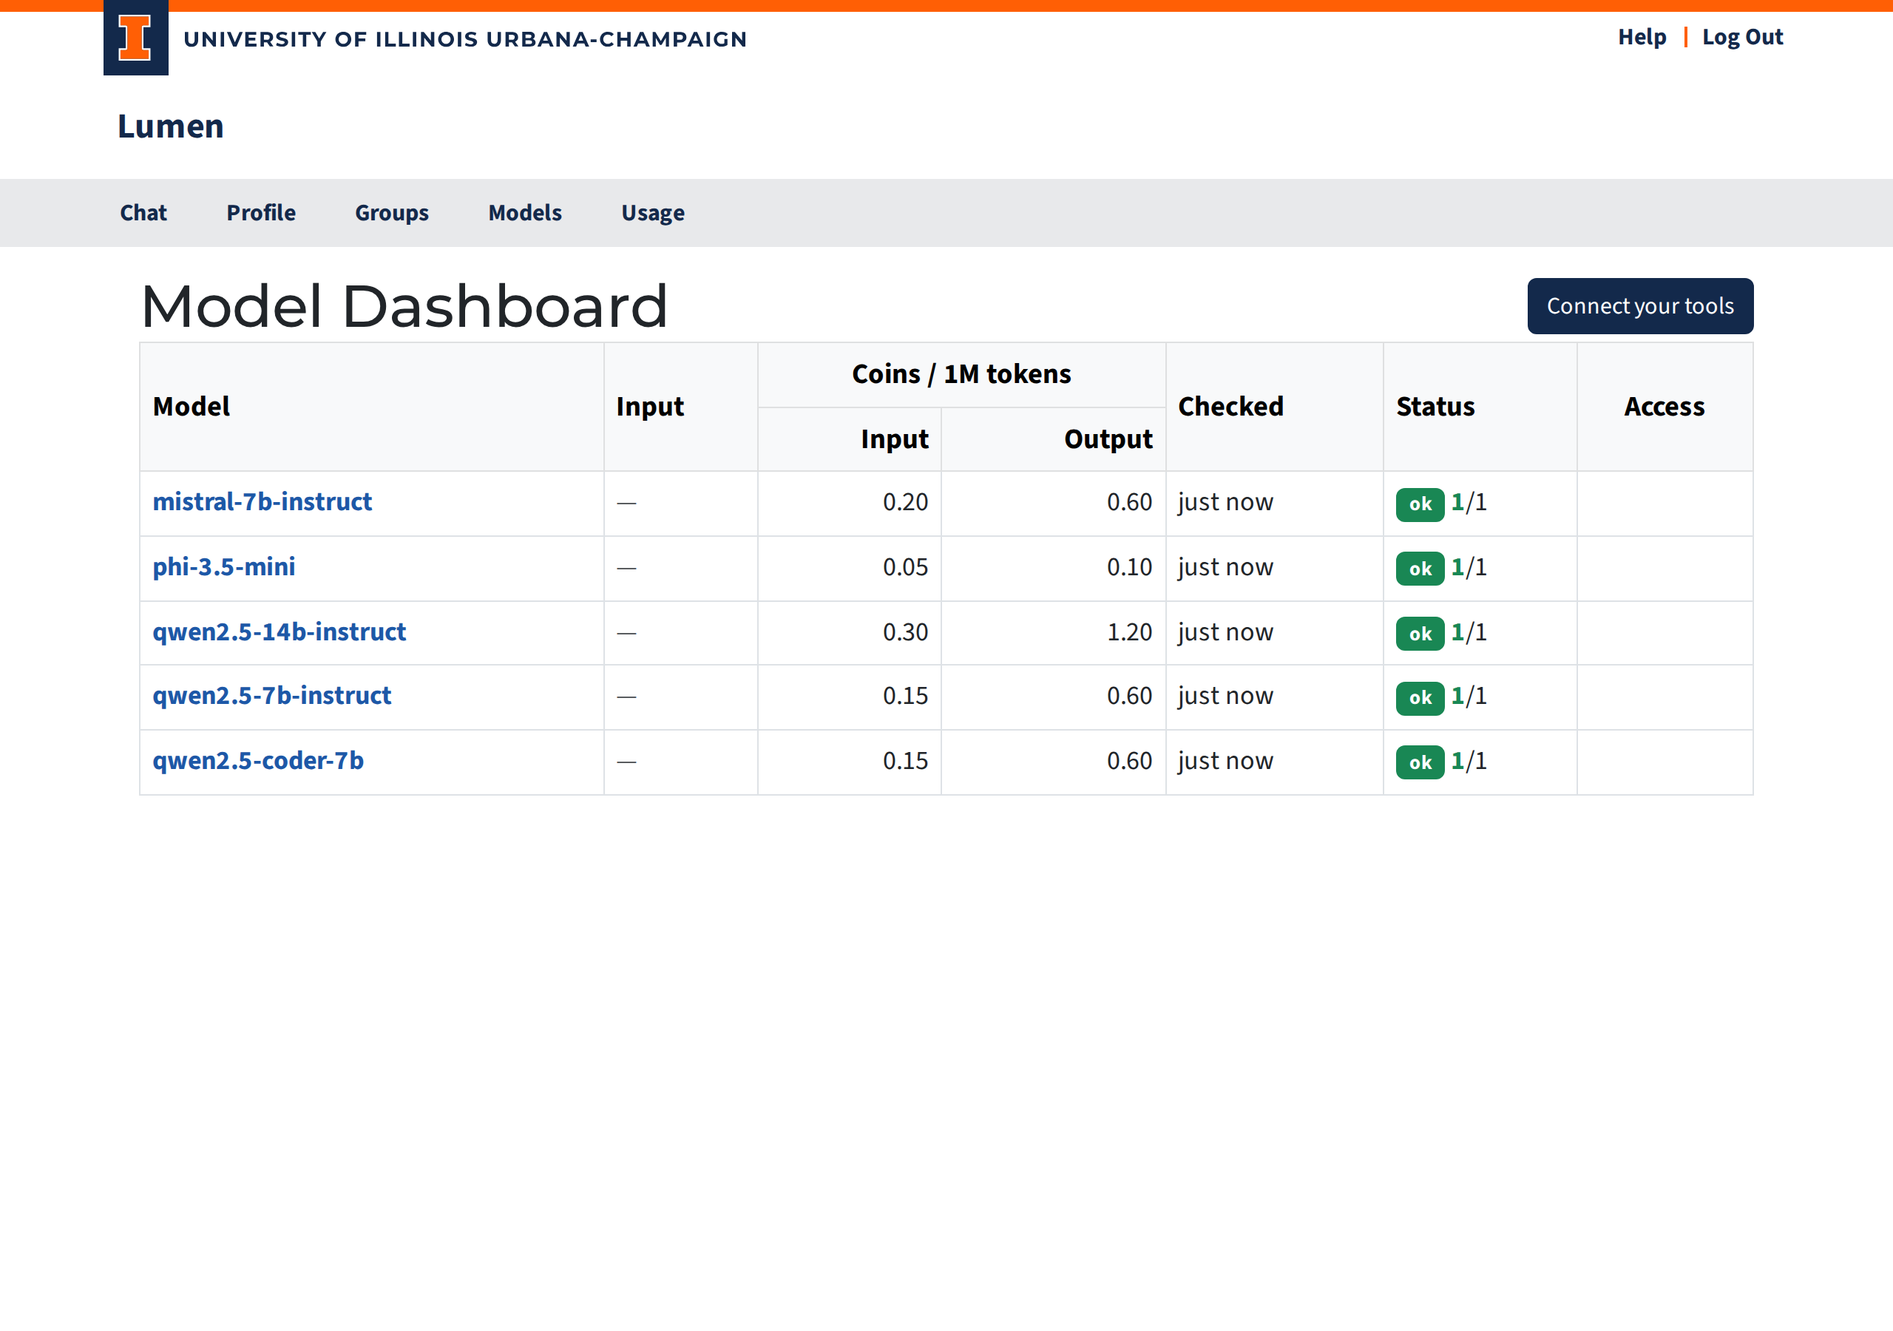
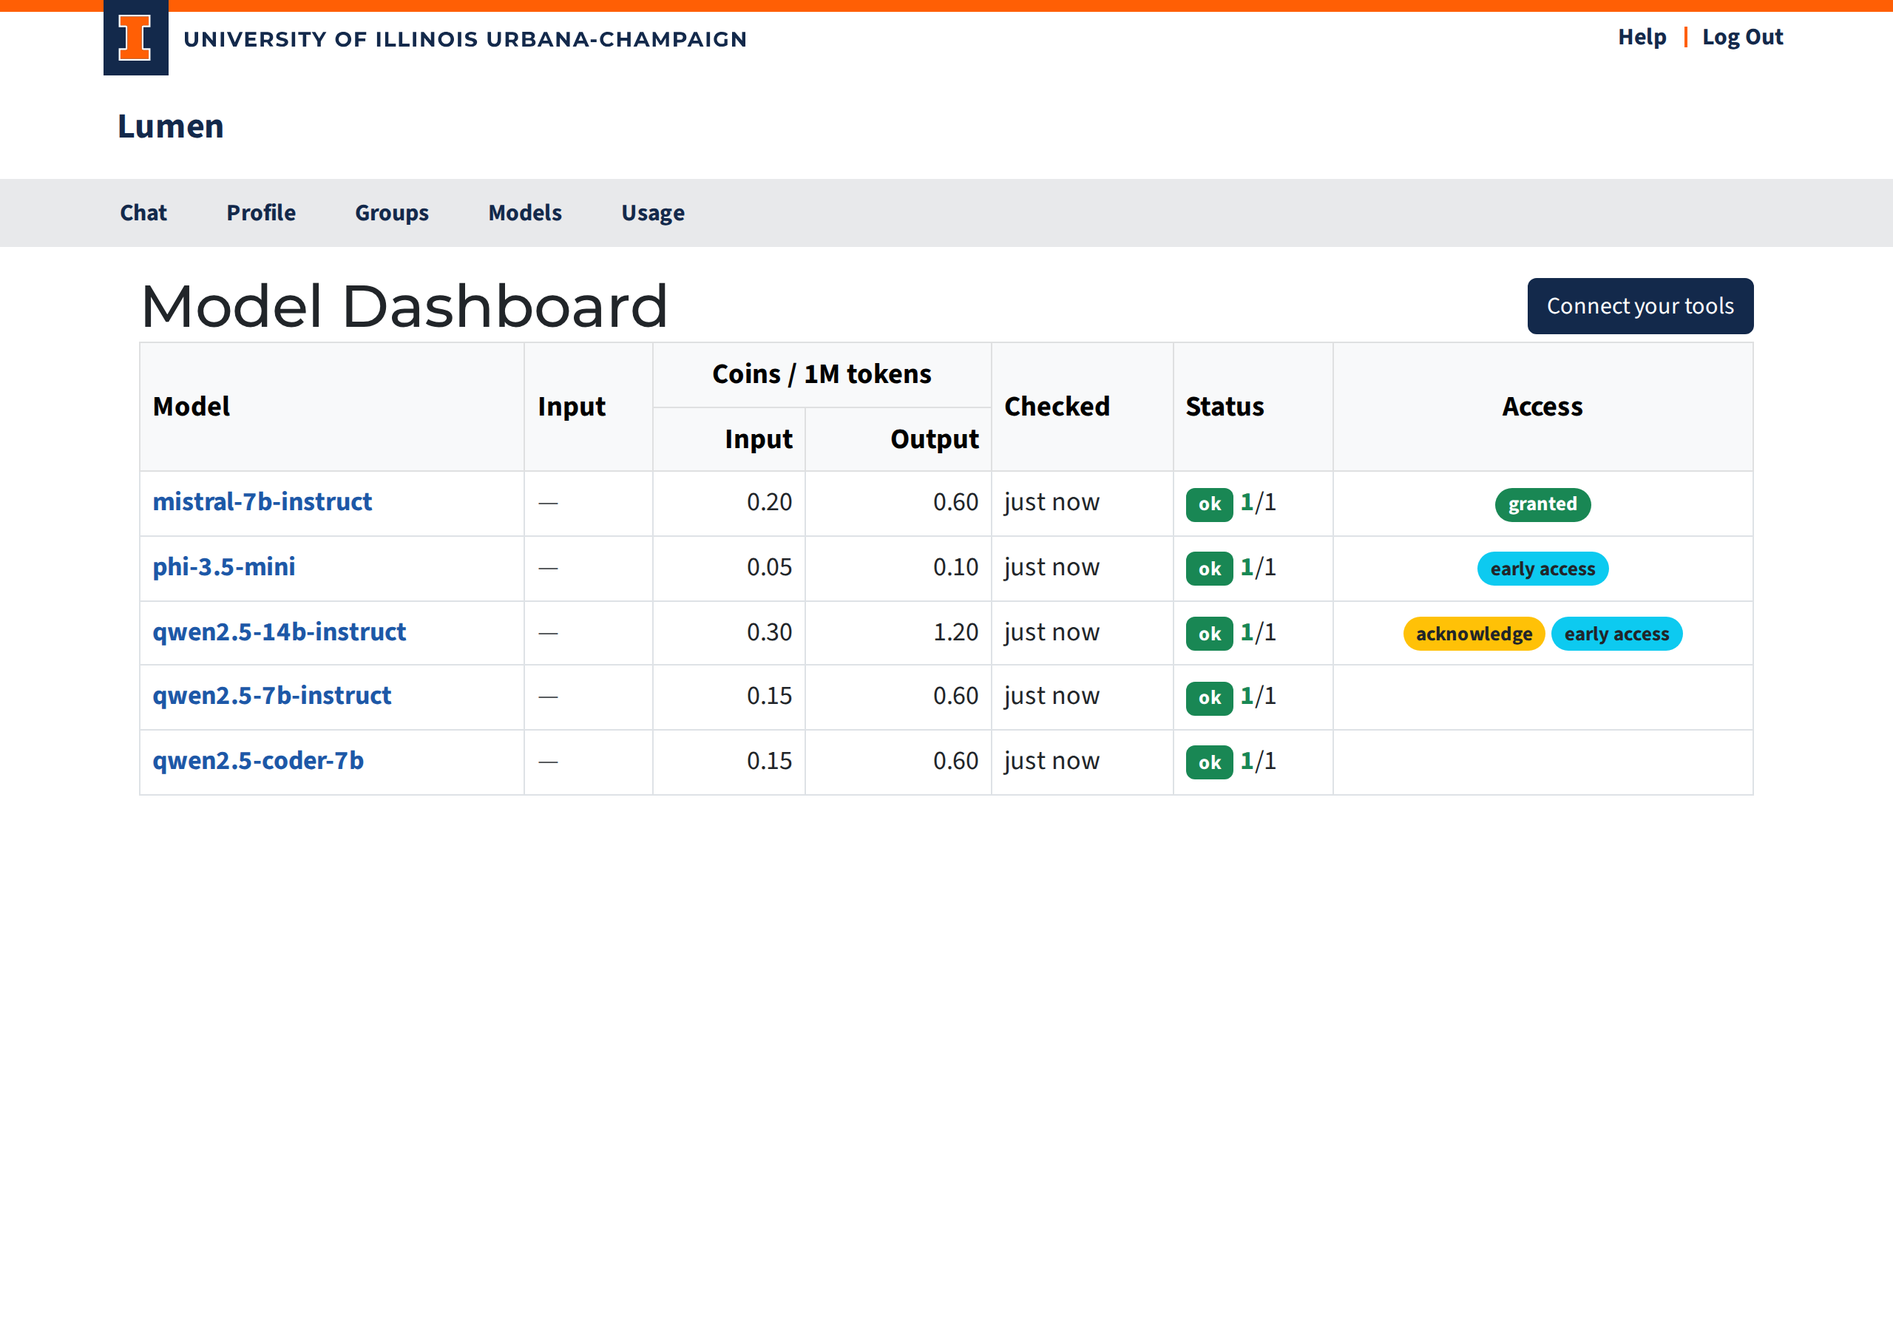
RK-273 Model Dashboard: clickable Access pills and granted pill (#104)
* Make Model Dashboard Access pills open the acknowledge dialog

Unconsented acknowledge / early access pills are now buttons that open the
shared acknowledgment dialog; once every requirement is consented the cell
shows a single granted pill. A requirement added after consent re-shows the
pills.

* Document clickable Access pills, re-capture models screenshot, update CHANGELOG

* Show acknowledgment details when the granted pill is clicked

The granted pill is now a button that opens the same Access Acknowledgment
popover as the chat page's consented icon: the notices and when the model
was acknowledged.

* Move new accessibility-test imports to module scope

diff --git a/lumen/templates/models.html b/lumen/templates/models.html
@@ -67,12 +67,21 @@
           <span class="fw-bold {% if healthy_eps %}text-success{% else %}text-danger{% endif %}">{{ healthy_eps | length }}</span>/{{ endpoints | length }}
         {% endif %}
       </td>
-      <td class="text-center">
-        {% if config.needs_ack %}
-          <span class="badge rounded-pill bg-warning text-dark">acknowledge</span>
-        {% endif %}
-        {% if config.early_access %}
-          <span class="badge rounded-pill bg-info text-dark">early access</span>
+      <td class="text-center text-nowrap">
+        {% set ack = ack_map.get(config.id) %}
+        {% if ack and ack.consented %}
+          <button type="button" class="badge rounded-pill bg-success border-0 consent-info-btn"
+                  data-notice="{{ ack.notice or '' }}" data-early-notice="{{ ack.early_notice or '' }}"
+                  data-consented-at="{{ ack.consent_at.strftime('%Y-%m-%dT%H:%M:%SZ') if ack.consent_at else '' }}">granted<span class="visually-hidden"> for {{ config.model_name }}, show acknowledgment details</span></button>
+        {% elif ack %}
+          {% if config.needs_ack %}
+            <button type="button" class="badge rounded-pill bg-warning text-dark border-0 ack-btn" aria-haspopup="dialog"
+                    data-name="{{ config.model_name }}" data-notice="{{ ack.notice or '' }}" data-early-notice="{{ ack.early_notice or '' }}">acknowledge<span class="visually-hidden"> for {{ config.model_name }}</span></button>
+          {% endif %}
+          {% if config.early_access %}
+            <button type="button" class="badge rounded-pill bg-info text-dark border-0 ack-btn" aria-haspopup="dialog"
+                    data-name="{{ config.model_name }}" data-notice="{{ ack.notice or '' }}" data-early-notice="{{ ack.early_notice or '' }}">early access<span class="visually-hidden"> for {{ config.model_name }}</span></button>
+          {% endif %}
         {% endif %}
       </td>
     </tr>
@@ -82,10 +91,21 @@
   </tbody>
 </table>
 </ilw-content>
+{% include '_ack_modal.html' %}
 {% endblock %}
 
 {% block scripts %}
+<script src="https://cdn.jsdelivr.net/npm/marked/marked.min.js"></script>
+<script src="https://cdn.jsdelivr.net/npm/dompurify/dist/purify.min.js"></script>
+<script src="{{ url_for('static', filename='js/ack-consent.js') }}"></script>
 <script>
   document.querySelectorAll('[data-bs-toggle="tooltip"]').forEach(el => new bootstrap.Tooltip(el));
+  const openAckModal = initAckConsent(() => location.reload());
+  document.querySelectorAll('.ack-btn').forEach(btn => {
+    btn.addEventListener('click', () => openAckModal(btn.dataset.name, btn.dataset.notice || null, btn.dataset.earlyNotice || null));
+  });
+  document.querySelectorAll('.consent-info-btn').forEach(btn => {
+    btn.addEventListener('click', () => toggleConsentPopover(btn, 'left'));
+  });
 </script>
 {% endblock %}

diff --git a/lumen/static/js/ack-consent.js b/lumen/static/js/ack-consent.js
@@ -47,3 +47,58 @@ function initAckConsent(onSuccess, consentUrlFor) {
 
   return openAckModal;
 }
+
+// Toggles the "Access enabled" popover shown for an already-acknowledged model
+// (same content as the chat page's consented icon). Reads data-notice,
+// data-early-notice and data-consented-at from btn. Auto-dismisses after 20 s
+// (WCAG 2.2.1), paused while the button or popover is hovered or focused; Esc,
+// an outside click or a second click closes it.
+const toggleConsentPopover = (() => {
+  let popover = null;
+  let timer = null;
+
+  function dismiss() {
+    if (popover) { popover.dispose(); popover = null; }
+    clearTimeout(timer);
+  }
+  const startTimer = () => { clearTimeout(timer); timer = setTimeout(dismiss, 20000); };
+  const stopTimer = () => clearTimeout(timer);
+
+  document.addEventListener("keydown", e => { if (e.key === "Escape") dismiss(); });
+  document.addEventListener("click", e => {
+    if (popover && !popover._element.contains(e.target) && !(popover.tip && popover.tip.contains(e.target))) dismiss();
+  });
+
+  return function (btn, placement) {
+    const wasOpenHere = popover && popover._element === btn;
+    dismiss();
+    if (wasOpenHere) return;
+    const notice = btn.dataset.notice || "";
+    const earlyNotice = btn.dataset.earlyNotice || "";
+    const consentedAt = btn.dataset.consentedAt || "";
+    let content = notice ? DOMPurify.sanitize(marked.parse(notice)) : "";
+    if (earlyNotice) content += DOMPurify.sanitize(marked.parse(earlyNotice));
+    if (consentedAt) {
+      const dt = new Date(consentedAt);
+      content += `<p class="mb-0${notice ? " mt-1" : ""}"><strong>Access enabled.</strong> You acknowledged this model on ${dt.toLocaleString()}.</p>`;
+    }
+    popover = new bootstrap.Popover(btn, {
+      html: true,
+      content: content || "<strong>Access enabled.</strong> This model has been acknowledged.",
+      trigger: "manual",
+      placement: placement || "bottom",
+      title: '<span class="text-warning"><i class="bi bi-exclamation-triangle-fill" aria-hidden="true"></i></span> Access Acknowledgment Required',
+      customClass: "popover-warning",
+    });
+    const current = popover;
+    btn.addEventListener("shown.bs.popover", () => {
+      if (current !== popover || !current.tip) return;
+      current.tip.addEventListener("mouseenter", stopTimer);
+      current.tip.addEventListener("mouseleave", startTimer);
+    }, { once: true });
+    btn.onmouseenter = btn.onfocus = stopTimer;
+    btn.onmouseleave = btn.onblur = () => { if (popover === current && !btn.matches(":hover, :focus")) startTimer(); };
+    popover.show();
+    if (!btn.matches(":hover, :focus")) startTimer();
+  };
+})();

diff --git a/tests/ui/test_models_table.py b/tests/ui/test_models_table.py
@@ -3,6 +3,7 @@ from datetime import datetime
 from bs4 import BeautifulSoup
 
 from lumen.extensions import db
+from lumen.models.entity_model_consent import EntityModelConsent
 from lumen.models.model_config import ModelConfig
 from lumen.models.model_endpoint import ModelEndpoint
 
@@ -58,37 +59,112 @@ def test_model_name_does_not_wrap(auth_client, test_model):
     assert "text-nowrap" in row.find("a")["class"]
 
 
-def test_needs_ack_row_has_acknowledge_pill(app, auth_client, test_model):
-    _set_model(app, test_model["id"], needs_ack=True)
+def _access_cell(row):
+    return row.find_all("td")[-1]
+
+
+def _access_buttons(row):
+    return {b.find(string=True, recursive=False).strip(): b for b in _access_cell(row).find_all("button")}
+
+
+def _consent(app, entity_id, model_id, **timestamps):
+    with app.app_context():
+        db.session.add(EntityModelConsent(entity_id=entity_id, model_config_id=model_id, **timestamps))
+        db.session.commit()
+
+
+def test_needs_ack_row_has_acknowledge_button(app, auth_client, test_model):
+    _set_model(app, test_model["id"], needs_ack=True, ack_message="Read **this**.")
 
     row = _row(_soup(auth_client), test_model["model_name"])
     assert row is not None
-    pill = row.find("span", class_="badge", string="acknowledge")
-    assert pill is not None
-    assert "bg-warning" in pill["class"]
-    assert "text-dark" in pill["class"]
+    buttons = _access_buttons(row)
+    assert list(buttons) == ["acknowledge"]
+    btn = buttons["acknowledge"]
+    assert btn["type"] == "button"
+    assert {"badge", "rounded-pill", "bg-warning", "text-dark", "ack-btn"} <= set(btn["class"])
+    assert btn["data-name"] == test_model["model_name"]
+    assert btn["data-notice"] == "Read **this**."
+    assert btn["data-early-notice"] == ""
+    assert btn.find("span", class_="visually-hidden").get_text() == f" for {test_model['model_name']}"
     assert row.find("i", class_="bi-lock-fill") is None
     assert "Acknowledgment required" not in row.get_text()
 
 
-def test_early_access_row_has_early_access_pill(app, auth_client, test_model):
+def test_early_access_row_has_early_access_button(app, auth_client, test_model):
     _set_model(app, test_model["id"], early_access=True)
 
     row = _row(_soup(auth_client), test_model["model_name"])
     assert row is not None
-    pill = row.find("span", class_="badge", string="early access")
-    assert pill is not None
-    assert "bg-info" in pill["class"]
-    assert "acknowledge" not in _pills(row)
+    buttons = _access_buttons(row)
+    assert list(buttons) == ["early access"]
+    btn = buttons["early access"]
+    assert "bg-info" in btn["class"]
+    assert btn["data-name"] == test_model["model_name"]
+    assert btn["data-notice"] == ""
 
 
-def test_plain_model_has_no_access_pills(auth_client, test_model):
+def test_both_requirements_render_both_buttons(app, auth_client, test_model):
+    _set_model(app, test_model["id"], needs_ack=True, early_access=True)
+
+    row = _row(_soup(auth_client), test_model["model_name"])
+    buttons = _access_buttons(row)
+    assert list(buttons) == ["acknowledge", "early access"]
+    # Either pill opens the same dialog with both notices.
+    assert buttons["acknowledge"]["data-early-notice"] == buttons["early access"]["data-early-notice"]
+    assert buttons["acknowledge"]["data-notice"] == buttons["early access"]["data-notice"]
+
+
+def test_consented_model_shows_single_granted_pill(app, auth_client, test_user, test_model):
+    _set_model(app, test_model["id"], needs_ack=True, early_access=True)
+    _consent(app, test_user["id"], test_model["id"], consented_at=datetime(2026, 1, 1), early_access_at=datetime(2026, 1, 1))
+
+    cell = _access_cell(_row(_soup(auth_client), test_model["model_name"]))
+    assert cell.find(class_="ack-btn") is None
+    pills = cell.find_all(class_="badge")
+    assert len(pills) == 1
+    pill = pills[0]
+    assert pill.name == "button"
+    assert pill["type"] == "button"
+    assert pill.find(string=True, recursive=False).strip() == "granted"
+    assert {"bg-success", "consent-info-btn"} <= set(pill["class"])
+    assert pill["data-consented-at"] == "2026-01-01T00:00:00Z"
+    assert "for test-model" in pill.find("span", class_="visually-hidden").get_text()
+
+
+def test_granted_pill_carries_notices_for_details_popover(app, auth_client, test_user, test_model):
+    _set_model(app, test_model["id"], needs_ack=True, ack_message="Read **this**.")
+    _consent(app, test_user["id"], test_model["id"], consented_at=datetime(2026, 2, 3, 4, 5, 6))
+
+    pill = _access_cell(_row(_soup(auth_client), test_model["model_name"])).find("button", class_="consent-info-btn")
+    assert pill["data-notice"] == "Read **this**."
+    assert pill["data-early-notice"] == ""
+    assert pill["data-consented-at"] == "2026-02-03T04:05:06Z"
+
+
+def test_requirement_added_after_consent_shows_pills_again(app, auth_client, test_user, test_model):
+    _set_model(app, test_model["id"], needs_ack=True)
+    _consent(app, test_user["id"], test_model["id"], consented_at=datetime(2026, 1, 1))
+    _set_model(app, test_model["id"], early_access=True)
+
+    row = _row(_soup(auth_client), test_model["model_name"])
+    assert list(_access_buttons(row)) == ["acknowledge", "early access"]
+    assert "granted" not in _pills(row)
+
+
+def test_plain_model_has_empty_access_cell(auth_client, test_model):
     row = _row(_soup(auth_client), test_model["model_name"])
     assert row is not None
-    pills = _pills(row)
-    assert "acknowledge" not in pills
-    assert "early access" not in pills
+    cell = _access_cell(row)
+    assert cell.get_text(strip=True) == ""
+    assert cell.find("button") is None
     assert row.find("i", class_="bi-lock-fill") is None
+
+
+def test_page_includes_ack_dialog(auth_client, test_model):
+    soup = _soup(auth_client)
+    assert soup.find(id="ackModal") is not None
+    assert any("ack-consent.js" in (s.get("src") or "") for s in soup.find_all("script"))
 
 
 def test_checked_header_renamed(auth_client, test_model):

diff --git a/lumen/blueprints/models_page/routes.py b/lumen/blueprints/models_page/routes.py
@@ -40,13 +40,26 @@ def _visible_model_or_404(model_name):
 def index():
     entity_id = session.get("entity_id")
     all_configs = db.session.execute(select(ModelConfig).where(ModelConfig.active).order_by(ModelConfig.model_name)).scalars().all()
-    access_statuses, _ = bulk_model_access_info(entity_id, [c.id for c in all_configs])
+    access_statuses, consent_map = bulk_model_access_info(entity_id, [c.id for c in all_configs])
     configs = [c for c in all_configs if access_statuses.get(c.id, "allowed") != "blocked"]
     model_ids = [c.id for c in configs]
+    # Acknowledgement state for the Access column. consent_map only holds models
+    # whose requirements are all satisfied, so a requirement added after consent
+    # re-shows the pills.
+    ack_map = {}
+    for c in configs:
+        if access_statuses.get(c.id) == "needs_ack":
+            notice, early_notice = model_notices(c)
+            ack_map[c.id] = {
+                "consented": c.id in consent_map,
+                "consent_at": consent_map.get(c.id),
+                "notice": notice,
+                "early_notice": early_notice,
+            }
     endpoints_map: dict[int, list] = {}
     for ep in db.session.execute(select(ModelEndpoint).where(ModelEndpoint.model_config_id.in_(model_ids), ModelEndpoint.active.is_(True))).scalars().all():
         endpoints_map.setdefault(ep.model_config_id, []).append(ep)
-    return render_template("models.html", configs=configs, endpoints_map=endpoints_map)
+    return render_template("models.html", configs=configs, endpoints_map=endpoints_map, ack_map=ack_map)
 
 
 @models_page_bp.route("/models/<path:model_name>")

diff --git a/tests/ui/test_accessibility.py b/tests/ui/test_accessibility.py
@@ -12,9 +12,14 @@ Rules enforced (from CLAUDE.md):
 - Data tables (<table> with <thead> and <tbody>) have <caption> or aria-label
 - Heading levels do not skip (h1 → h2 → h3, never h1 → h3)
 """
+from datetime import datetime
 from http import HTTPStatus
 
 from bs4 import BeautifulSoup
+
+from lumen.extensions import db
+from lumen.models.entity_model_consent import EntityModelConsent
+from lumen.models.model_config import ModelConfig
 
 # ---------------------------------------------------------------------------
 # Shared helpers
@@ -151,6 +156,27 @@ def test_landing_page(client):
 
 
 def test_models_page(auth_client):
+    resp = auth_client.get("/models")
+    assert resp.status_code == HTTPStatus.OK
+    _run_all_checks(resp.data, "/models")
+
+
+def test_models_page_with_access_pills(app, auth_client, test_model):
+    with app.app_context():
+        model = db.session.get(ModelConfig, test_model["id"])
+        model.needs_ack = True
+        model.early_access = True
+        db.session.commit()
+    resp = auth_client.get("/models")
+    assert resp.status_code == HTTPStatus.OK
+    _run_all_checks(resp.data, "/models")
+
+
+def test_models_page_with_granted_pill(app, auth_client, test_user, test_model):
+    with app.app_context():
+        db.session.get(ModelConfig, test_model["id"]).needs_ack = True
+        db.session.add(EntityModelConsent(entity_id=test_user["id"], model_config_id=test_model["id"], consented_at=datetime(2026, 1, 1)))
+        db.session.commit()
     resp = auth_client.get("/models")
     assert resp.status_code == HTTPStatus.OK
     _run_all_checks(resp.data, "/models")

diff --git a/docs/models/models.md b/docs/models/models.md
@@ -14,7 +14,7 @@ The **Models** page (`/models`) shows every AI model available to you in your Lu
 | **Coins / 1M tokens — Output** | Cost per million output tokens |
 | **Checked** | How long ago the most recent health check ran (e.g. `5 min. ago`); hover over or tab to it for the full date and time. It updates every minute while the page is open. **Never** means no check has run yet |
 | **Status** | Current availability (see below), followed by how many of the model's backend servers are currently reachable out of the total configured (e.g. **ok** `4/4`, **degraded** `2/4`) |
-| **Access** | Whether you must acknowledge the model's terms before use (see below) |
+| **Access** | Whether you must acknowledge the model's terms before use, or **granted** once you have (see below) |
 
 ## Status Badges
 
@@ -28,7 +28,7 @@ The **Models** page (`/models`) shows every AI model available to you in your Lu
 
 Models with **no endpoints** show the badge alone, without a healthy count.
 
-In the **Access** column, models that require a one-time acknowledgment show an **acknowledge** badge, and early-access models show an **early access** badge — these models may change or be removed at any time, and you must acknowledge that before using them. A model with an end date disappears from this page once the date passes.
+In the **Access** column, models that require a one-time acknowledgment show an **acknowledge** pill, and early-access models show an **early access** pill — these models may change or be removed at any time, and you must acknowledge that before using them. Click either pill to open the acknowledgment dialog, which shows every notice that applies to the model; **Accept & Enable** records your acknowledgment and the pills are replaced by a green **granted** pill; click **granted** to see the notices you accepted and when you acknowledged them. **Cancel** leaves the model unchanged. If a model gains a new requirement after you acknowledged it, its pills appear again until you acknowledge the new terms. Models without requirements leave the column empty. A model with an end date disappears from this page once the date passes.
 
 ## Understanding Pricing
 

diff --git a/CHANGELOG.md b/CHANGELOG.md
@@ -20,7 +20,7 @@ All notable changes to Lumen will be documented in this file.
 
 ### Changed
 
-- Compact the Model Dashboard table: grouped coin columns, merged health into status, relative check times.
+- Compact the Model Dashboard table: grouped coin columns, health merged into status, relative check times; acknowledge models from the Access column.
 - Request and token totals of a million or more display compactly (e.g. "5.2 million", "16.1 billion").
 - Generated opencode configs (`lumen.sh` sync and the Connect page) advertise each model's `modalities`, `attachment`, `tool_call`, and `reasoning` flags, so OpenCode accepts image uploads for vision models instead of rejecting them client-side. ([#79](https://github.com/ncsa/lumen/issues/79))
 - The model dashboard lists each model's accepted inputs (text/image/audio) as pills next to its name. ([#79](https://github.com/ncsa/lumen/issues/79))
